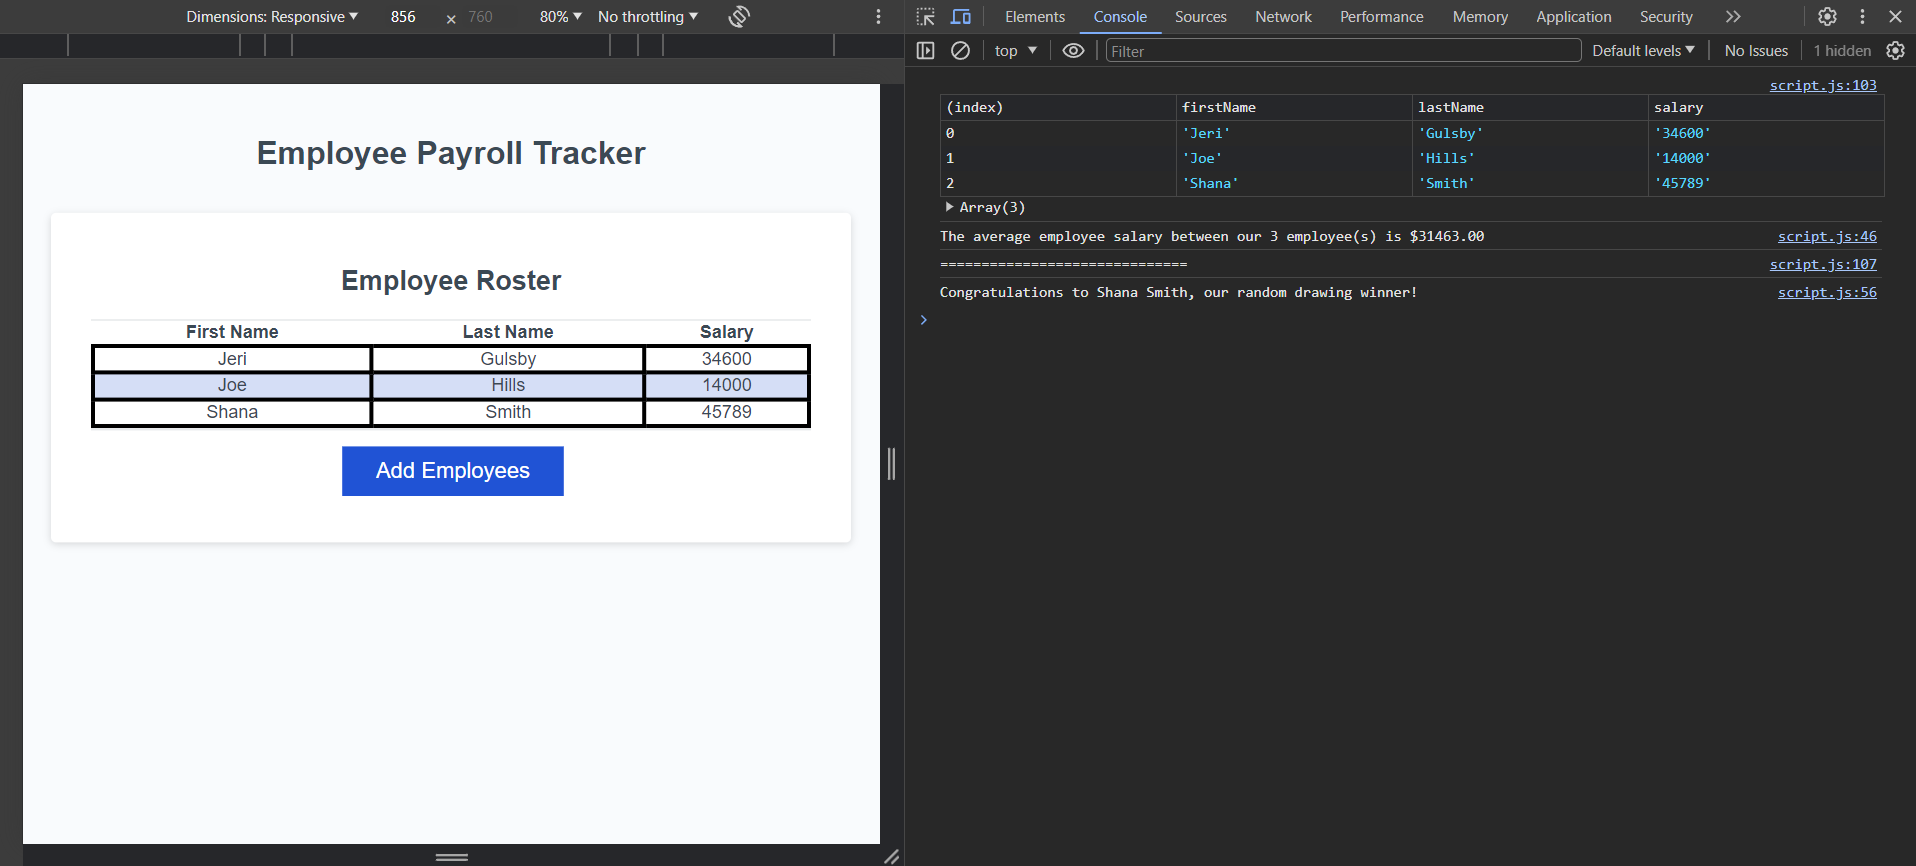
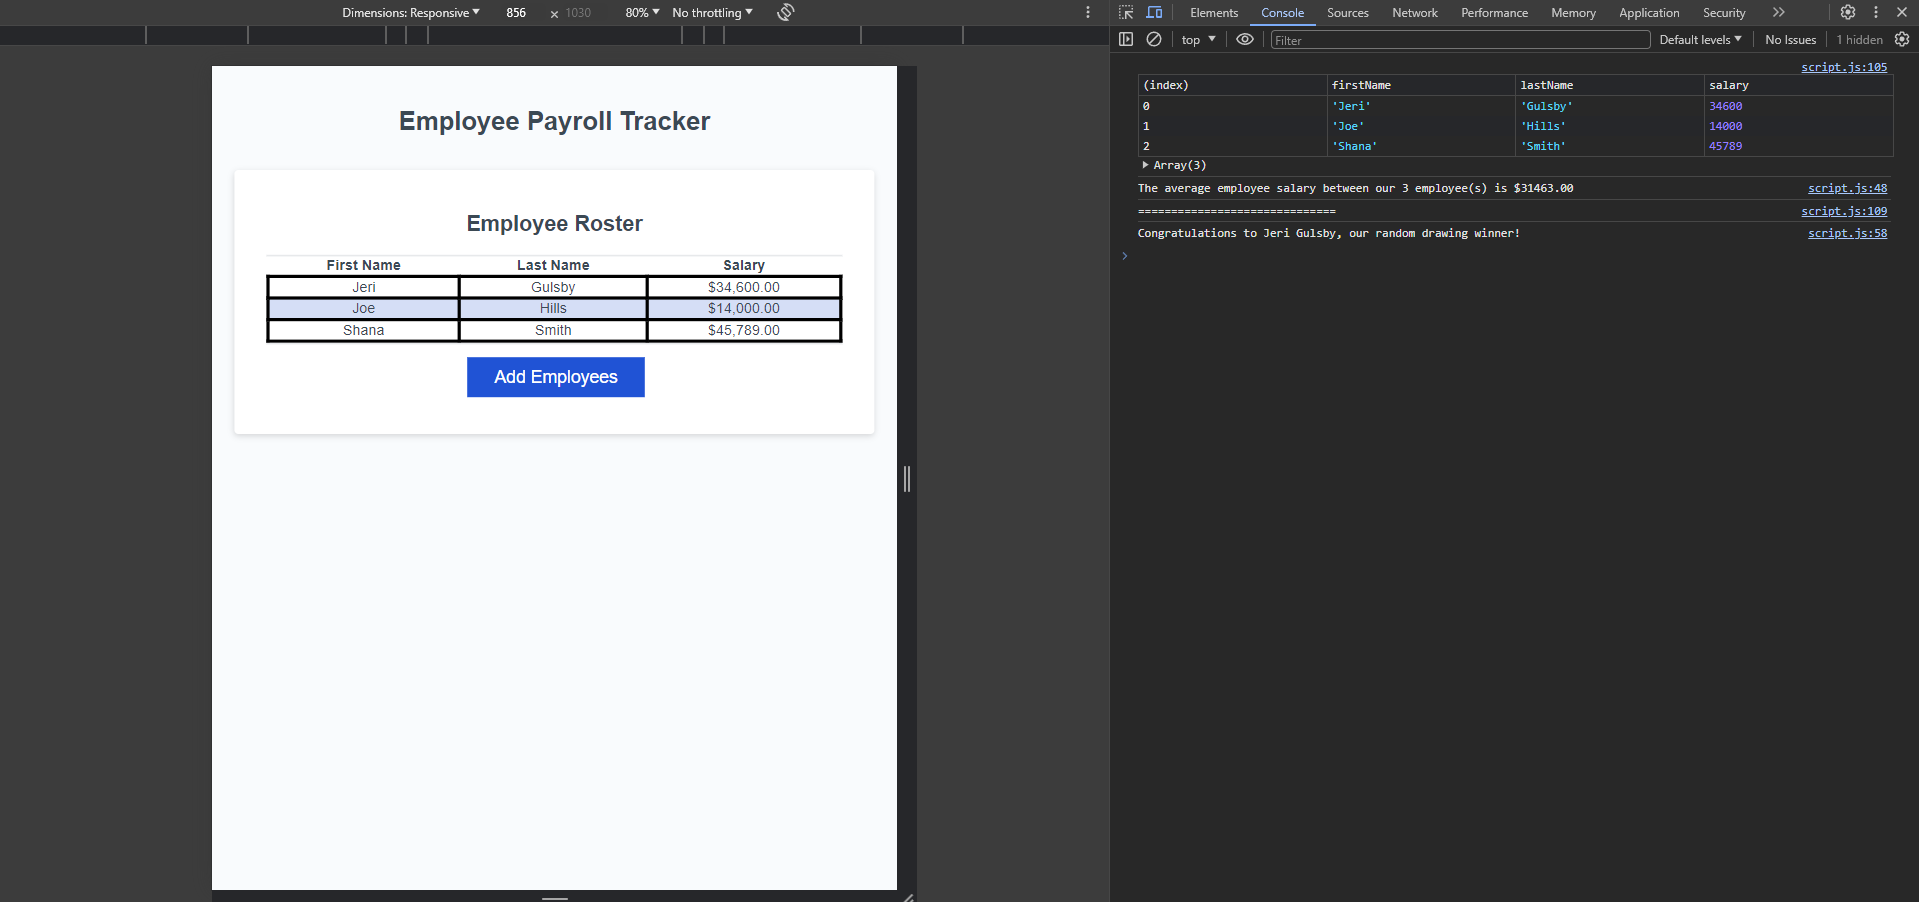
Fixed bug on line 20 in JS file

Changed region(s): [[0.0, 0.0, 1.0, 1.0]]

diff --git a/script.js b/script.js
@@ -16,6 +16,8 @@ const collectEmployees = function() {
     // Check if the employee's salary entered is not a number, if it is not then salary defaults to 0
     if(isNaN(employeeSalary)){
       employeeSalary = 0;
+    } else {
+      employeeSalary = parseFloat(employeeSalary);
     }
     // Create an employee object using the employee information collected from the user prompts
     let employee = {
@@ -39,7 +41,7 @@ const displayAverageSalary = function(employeesArray) {
   let numOfEmployees = employeesArray.length;
   let totalSalary = 0;
   for (let i = 0; i < numOfEmployees; i++){
-    totalSalary += parseFloat(employeesArray[i].salary);
+    totalSalary += employeesArray[i].salary;
   }
   // Calculate the average salary between all the employees and log the information using template literals
   let averageSalary = (totalSalary / numOfEmployees);
